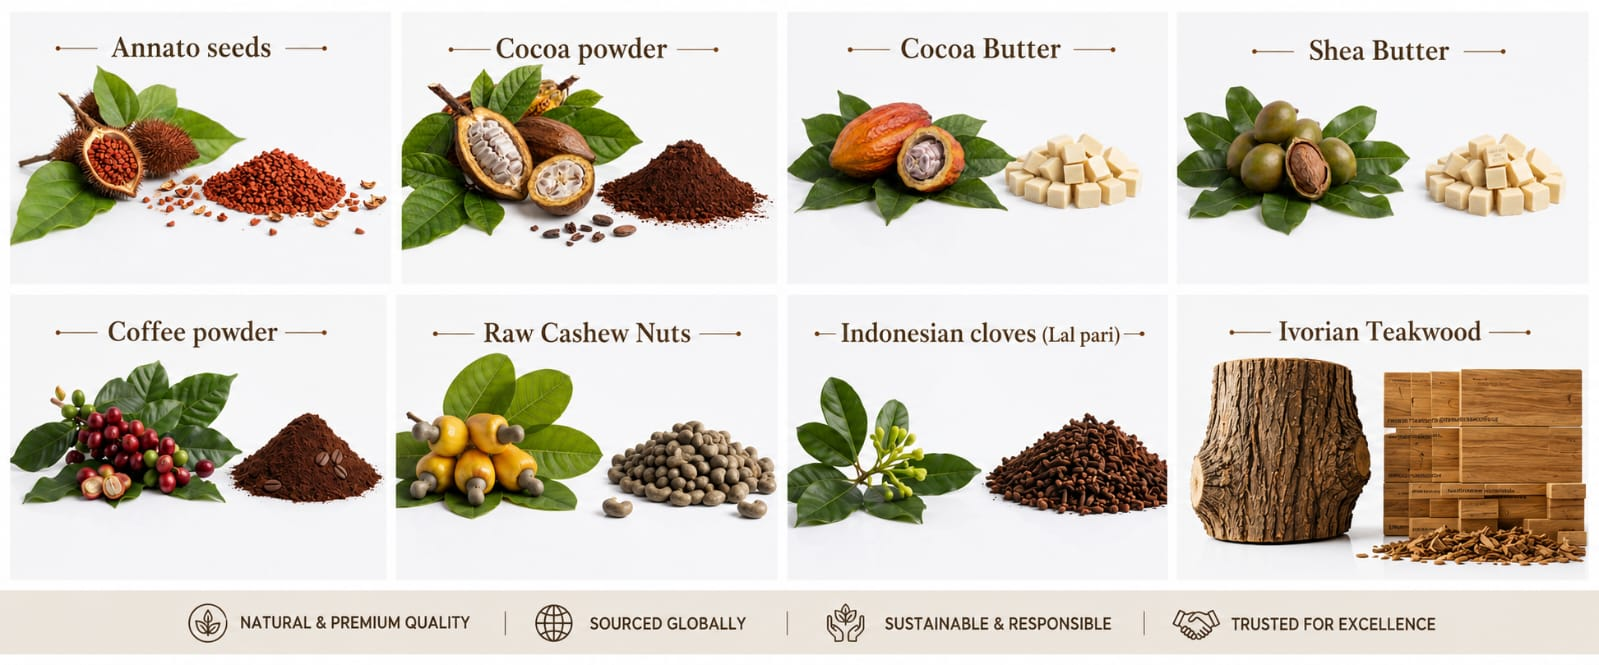
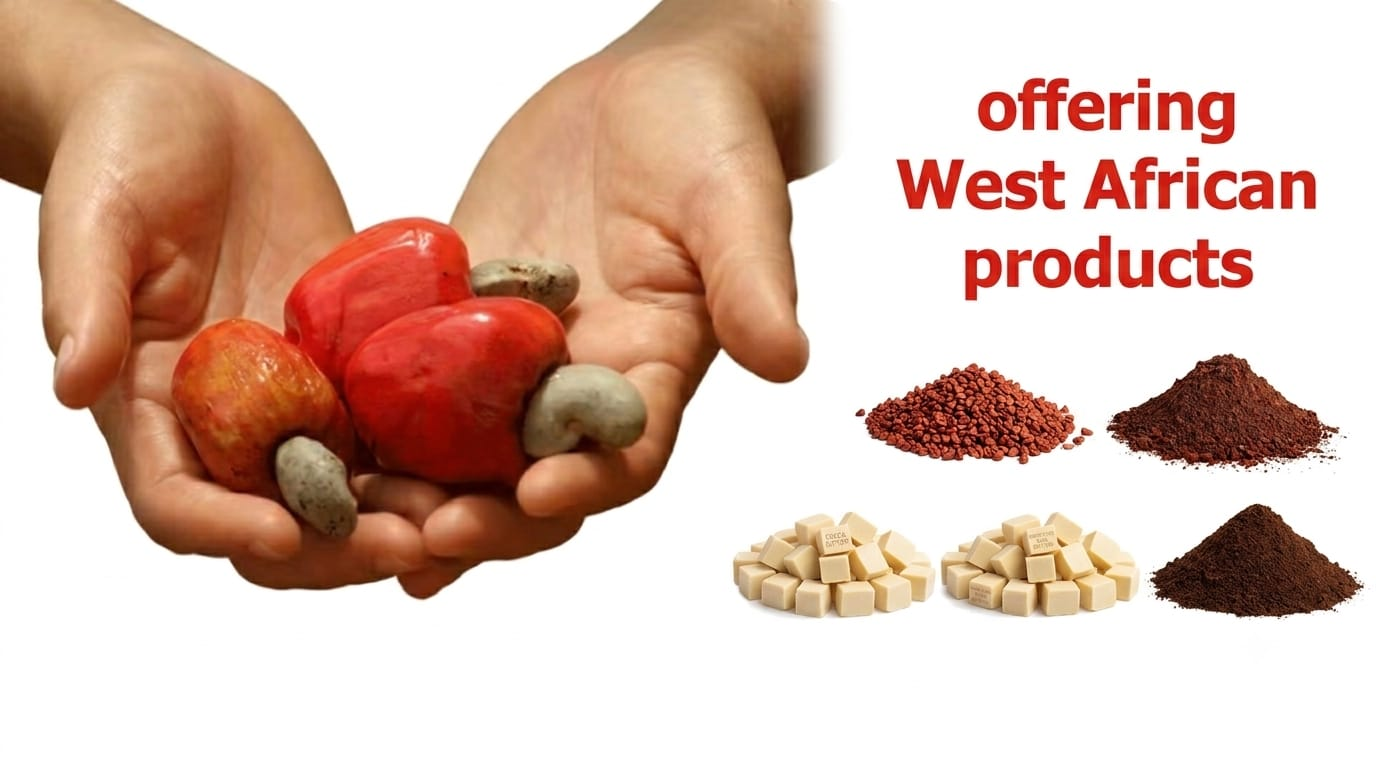
first commit

diff --git a/index.php b/index.php
@@ -163,6 +163,14 @@ function reel_embed_url(string $url): string {
           -webkit-transition: none !important;
           transition: none !important;
         }
+        .main-slider.main-slider-one,
+        .main-slider.main-slider-one .swiper-container,
+        .main-slider.main-slider-one .swiper-wrapper,
+        .main-slider.main-slider-one .swiper-slide {
+          height: calc(100vw * 0.41625) !important;
+          min-height: 560px !important;
+          max-height: 860px !important;
+        }
         .main-slider-one,
         .main-slider-one .swiper-container,
         .main-slider-one .swiper-wrapper,
@@ -175,7 +183,12 @@ function reel_embed_url(string $url): string {
         }
         .main-slider-one .hero-main-image {
           background-position: center center !important;
-          background-size: cover !important;
+          background-size: 100% 100% !important;
+        }
+        .main-slider.main-slider-one .swiper-container-initialized .swiper-slide:not(.swiper-slide-active) {
+          opacity: 0 !important;
+          visibility: hidden !important;
+          pointer-events: none;
         }
         .main-slider-one .swiper-wrapper,
         .main-slider-one .swiper-slide {
@@ -533,7 +546,7 @@ function reel_embed_url(string $url): string {
               <div
                 class="image-layer"
                 style="
-                  background-image: url(assets/images/backgrounds/13.jpeg);
+                  background-image: url(assets/images/backgrounds/2hero.jpeg);
                 "
               ></div>
               <div class="image-layer-overlay"></div>